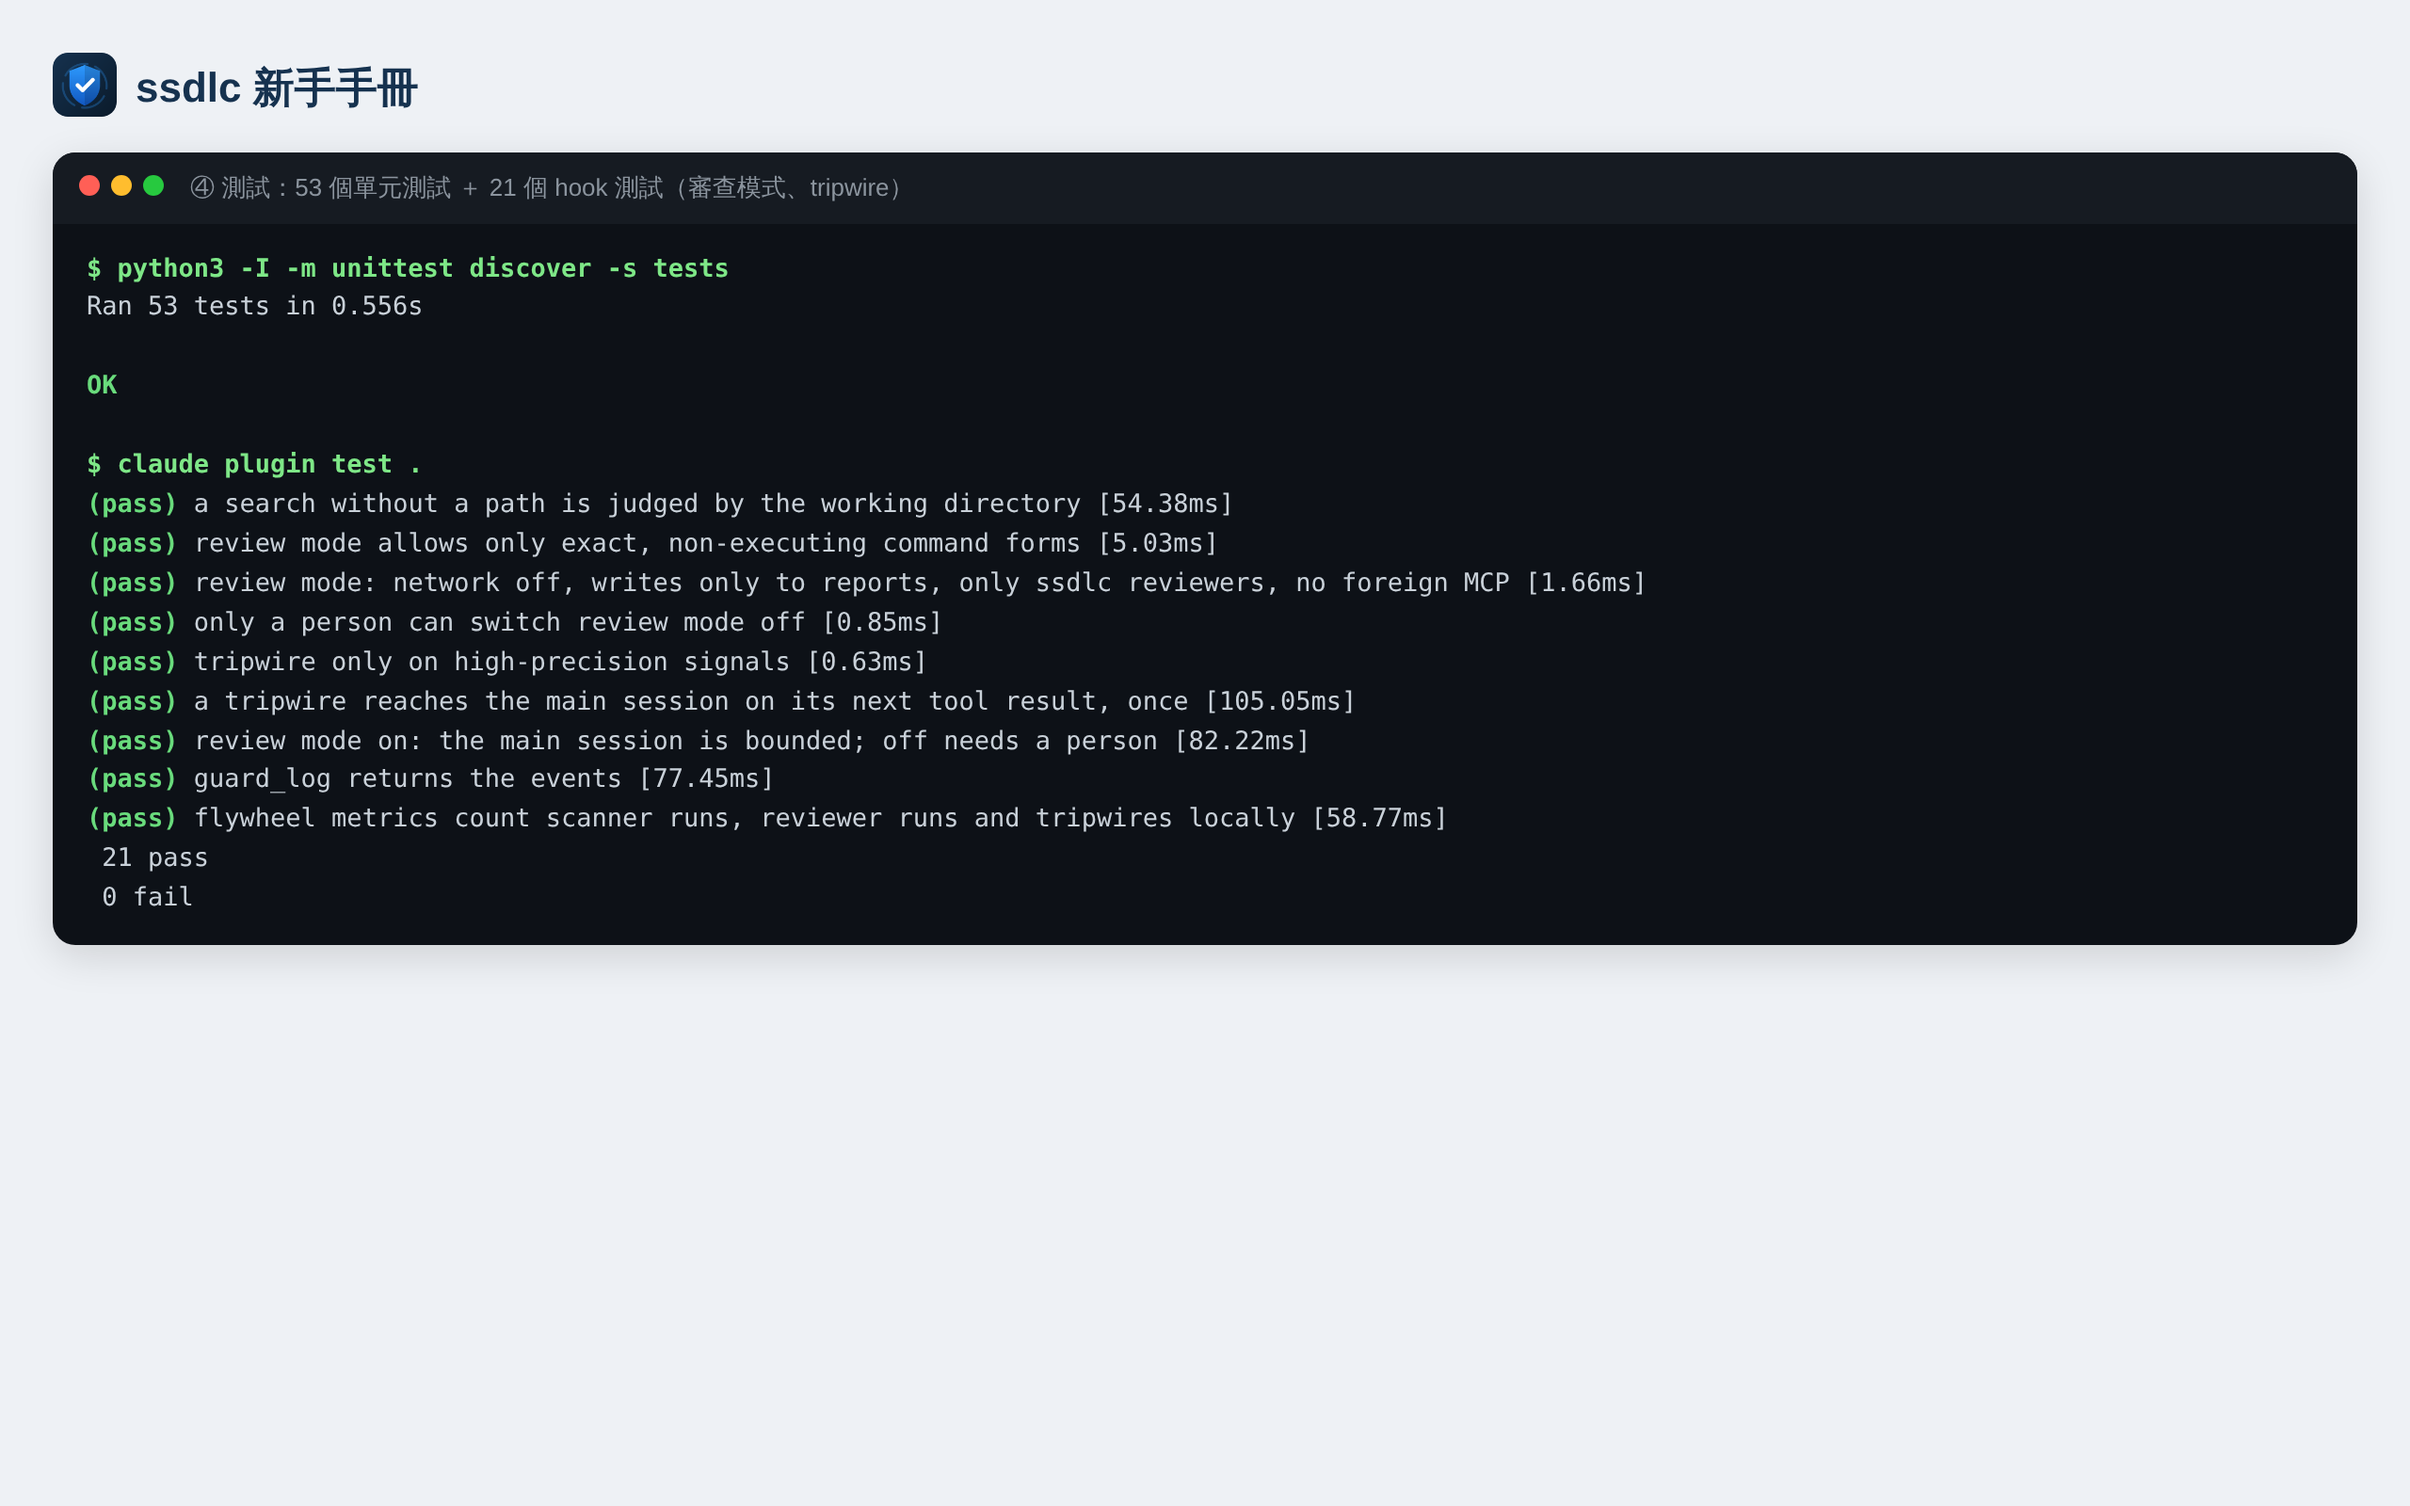
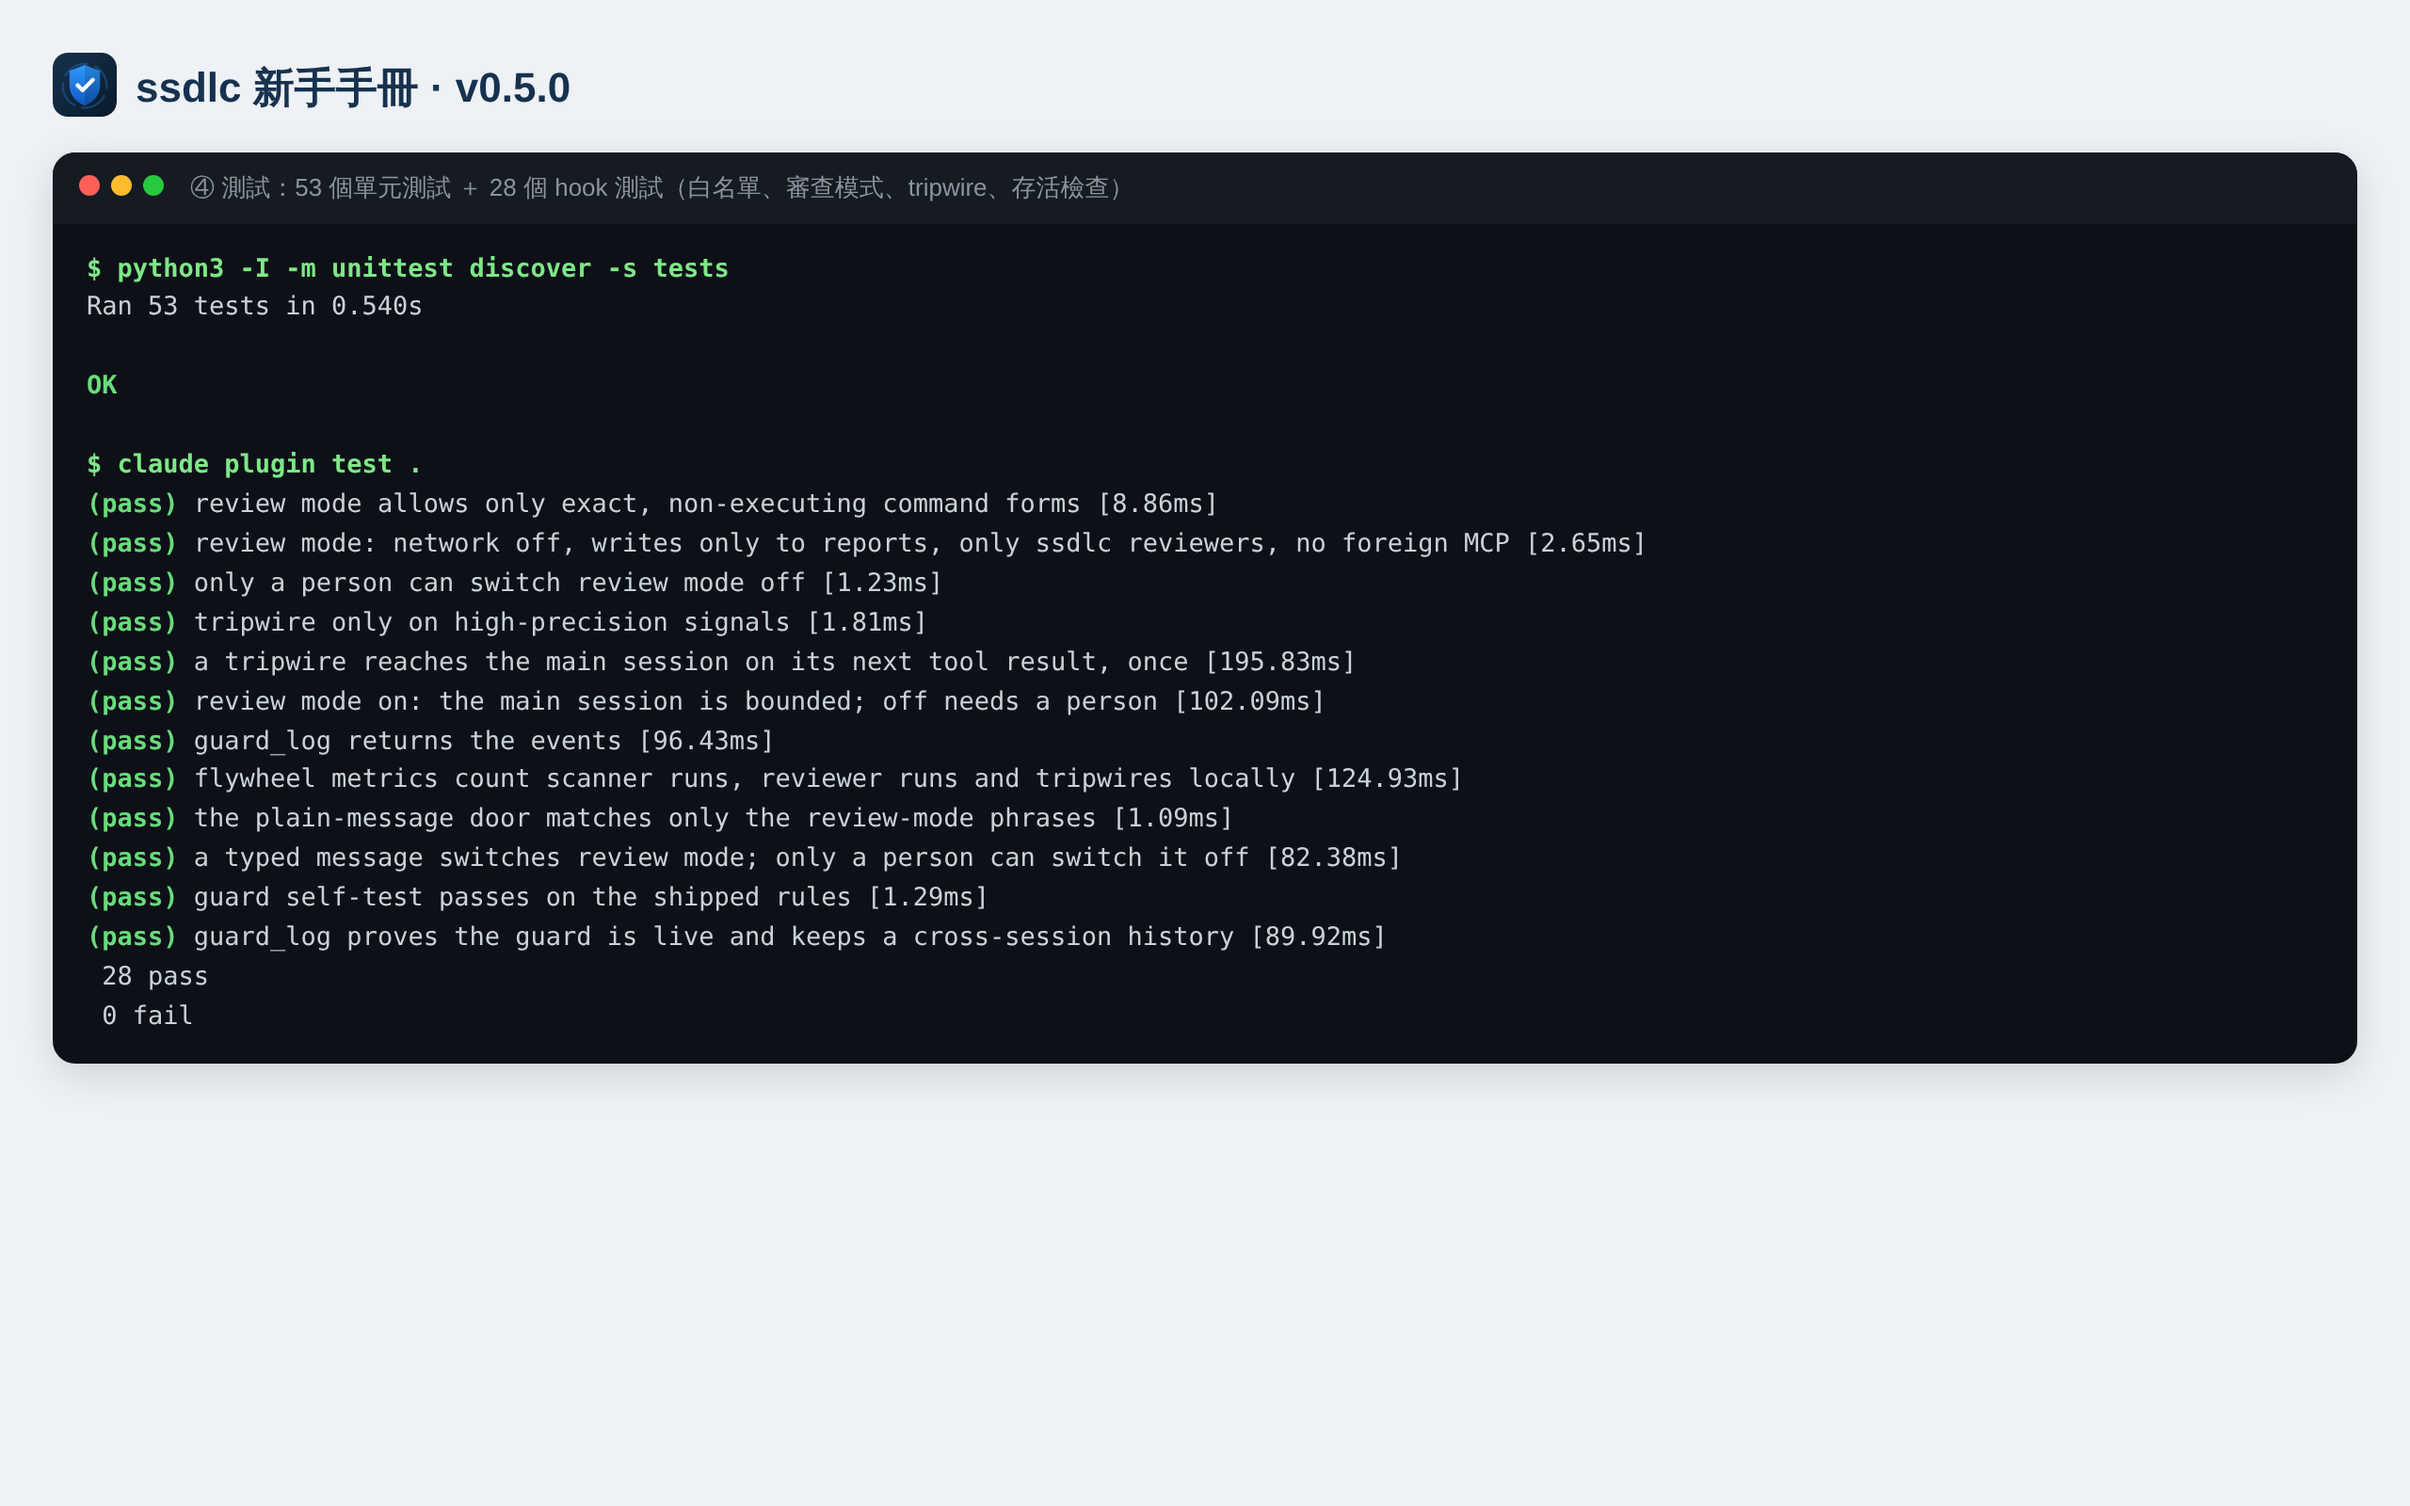
docs(manual): screenshots for v0.5.0, plus live verification in the Claude app
step1 install shows 0.5.0; step2/3 re-captured; step4 shows 53 unit + 28 hook
tests; new step5 (manual 10.3) shows real output from this session: review mode
refusing curl, the reviewer allow-list results, and guard_log's liveness block
(JSON excerpted).

Claude-Session: https://claude.ai/code/session_01R1ma2KKoemvTgjSD3ke2JF

diff --git a/docs/manual/README.md b/docs/manual/README.md
@@ -381,6 +381,12 @@ hook 若因 Claude Code 更新而沒有載入，它無法自己報錯。所以 s
 - 你也可以隨時請 Claude「呼叫 guard_log」，回覆中的 `guard` 區塊會列出版本、載入時間與自我檢查結果。
 - 每次拒絕都會寫進本機的歷史紀錄（跨 session、最多 500 筆），`guard_log` 的 `history` 區塊顯示總數與最近 20 筆。
 
+在 Claude app 中實機驗證的結果（審查模式擋下 `curl`、審查員白名單、`guard_log` 存活檢查）：
+
+![Claude app 實機驗證](img/step5.png)
+
+（第一行是加入 `ssdlc ✓` 前綴之前擷取的原始輸出；v0.5.0 的回覆會以 `ssdlc ✓` 開頭。）
+
 ### 10.4 本機計量
 
 `ssdlc review-mode status` 會顯示自首次使用以來的掃描次數、審查員派出次數、tripwire 與 warn 次數。這些數字只存在你的電腦（Claude Code 的外掛儲存區），不會傳到任何地方，用途是讓你知道工具被使用的程度與警報的頻率。
